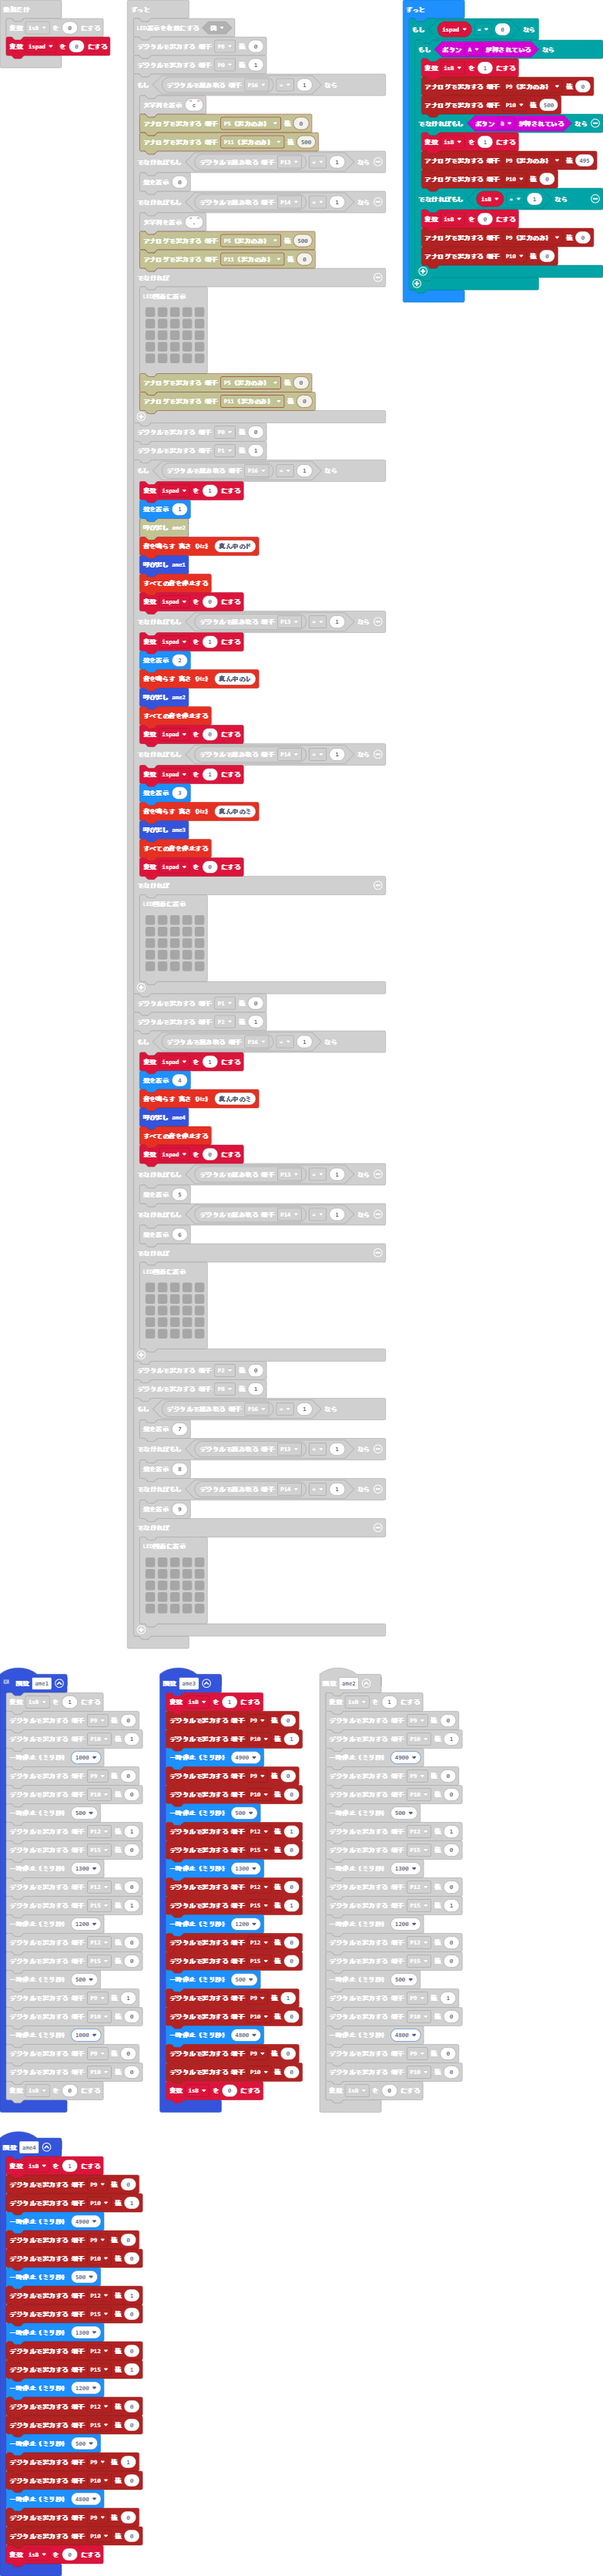
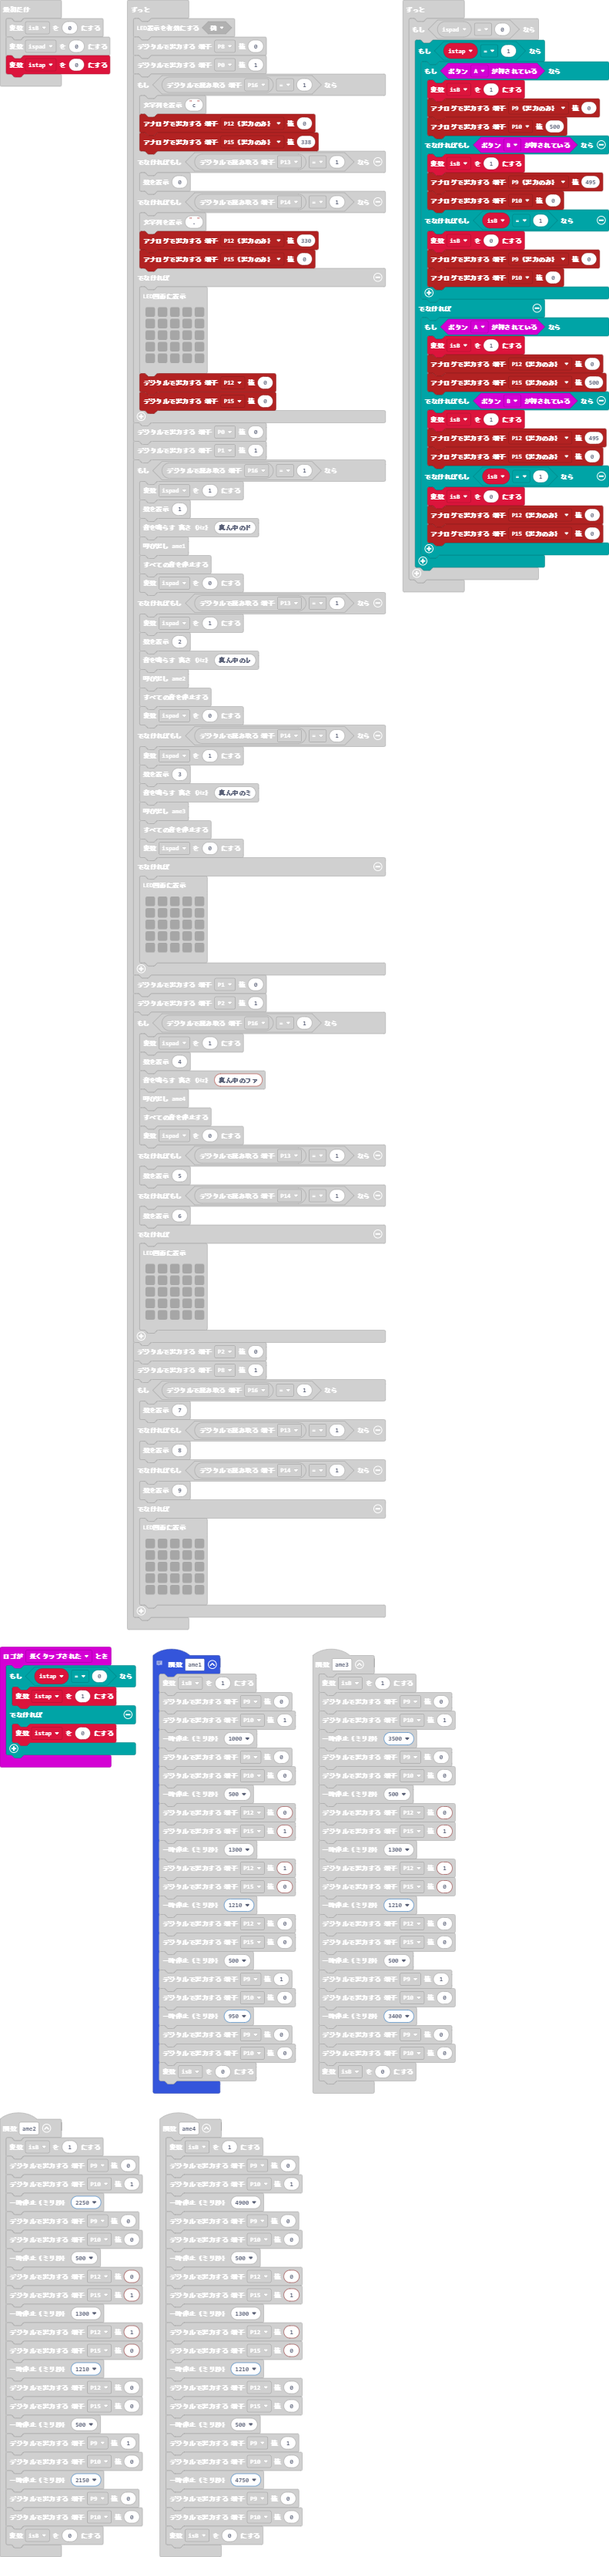
更新 main.blocks, main.ts

diff --git a/main.ts b/main.ts
@@ -2,22 +2,22 @@ function ame3 () {
     isB = 1
     pins.digitalWritePin(DigitalPin.P9, 0)
     pins.digitalWritePin(DigitalPin.P10, 1)
-    basic.pause(4900)
+    basic.pause(3500)
     pins.digitalWritePin(DigitalPin.P9, 0)
     pins.digitalWritePin(DigitalPin.P10, 0)
     basic.pause(500)
-    pins.digitalWritePin(DigitalPin.P12, 1)
-    pins.digitalWritePin(DigitalPin.P15, 0)
-    basic.pause(1300)
     pins.digitalWritePin(DigitalPin.P12, 0)
     pins.digitalWritePin(DigitalPin.P15, 1)
-    basic.pause(1200)
+    basic.pause(1300)
+    pins.digitalWritePin(DigitalPin.P12, 1)
+    pins.digitalWritePin(DigitalPin.P15, 0)
+    basic.pause(1210)
     pins.digitalWritePin(DigitalPin.P12, 0)
     pins.digitalWritePin(DigitalPin.P15, 0)
     basic.pause(500)
     pins.digitalWritePin(DigitalPin.P9, 1)
     pins.digitalWritePin(DigitalPin.P10, 0)
-    basic.pause(4800)
+    basic.pause(3400)
     pins.digitalWritePin(DigitalPin.P9, 0)
     pins.digitalWritePin(DigitalPin.P10, 0)
     isB = 0
@@ -55,22 +55,29 @@ function ame1 () {
     pins.digitalWritePin(DigitalPin.P9, 0)
     pins.digitalWritePin(DigitalPin.P10, 0)
     basic.pause(500)
-    pins.digitalWritePin(DigitalPin.P12, 1)
-    pins.digitalWritePin(DigitalPin.P15, 0)
-    basic.pause(1300)
     pins.digitalWritePin(DigitalPin.P12, 0)
     pins.digitalWritePin(DigitalPin.P15, 1)
-    basic.pause(1200)
+    basic.pause(1300)
+    pins.digitalWritePin(DigitalPin.P12, 1)
+    pins.digitalWritePin(DigitalPin.P15, 0)
+    basic.pause(1210)
     pins.digitalWritePin(DigitalPin.P12, 0)
     pins.digitalWritePin(DigitalPin.P15, 0)
     basic.pause(500)
     pins.digitalWritePin(DigitalPin.P9, 1)
     pins.digitalWritePin(DigitalPin.P10, 0)
-    basic.pause(1000)
+    basic.pause(950)
     pins.digitalWritePin(DigitalPin.P9, 0)
     pins.digitalWritePin(DigitalPin.P10, 0)
     isB = 0
 }
+input.onLogoEvent(TouchButtonEvent.LongPressed, function () {
+    if (istap == 0) {
+        istap = 1
+    } else {
+        istap = 0
+    }
+})
 function ame4 () {
     isB = 1
     pins.digitalWritePin(DigitalPin.P9, 0)
@@ -79,18 +86,18 @@ function ame4 () {
     pins.digitalWritePin(DigitalPin.P9, 0)
     pins.digitalWritePin(DigitalPin.P10, 0)
     basic.pause(500)
-    pins.digitalWritePin(DigitalPin.P12, 1)
-    pins.digitalWritePin(DigitalPin.P15, 0)
-    basic.pause(1300)
     pins.digitalWritePin(DigitalPin.P12, 0)
     pins.digitalWritePin(DigitalPin.P15, 1)
-    basic.pause(1200)
+    basic.pause(1300)
+    pins.digitalWritePin(DigitalPin.P12, 1)
+    pins.digitalWritePin(DigitalPin.P15, 0)
+    basic.pause(1210)
     pins.digitalWritePin(DigitalPin.P12, 0)
     pins.digitalWritePin(DigitalPin.P15, 0)
     basic.pause(500)
     pins.digitalWritePin(DigitalPin.P9, 1)
     pins.digitalWritePin(DigitalPin.P10, 0)
-    basic.pause(4800)
+    basic.pause(4750)
     pins.digitalWritePin(DigitalPin.P9, 0)
     pins.digitalWritePin(DigitalPin.P10, 0)
     isB = 0
@@ -99,39 +106,45 @@ function ame2 () {
     isB = 1
     pins.digitalWritePin(DigitalPin.P9, 0)
     pins.digitalWritePin(DigitalPin.P10, 1)
-    basic.pause(4900)
+    basic.pause(2250)
     pins.digitalWritePin(DigitalPin.P9, 0)
     pins.digitalWritePin(DigitalPin.P10, 0)
     basic.pause(500)
-    pins.digitalWritePin(DigitalPin.P12, 1)
-    pins.digitalWritePin(DigitalPin.P15, 0)
-    basic.pause(1300)
     pins.digitalWritePin(DigitalPin.P12, 0)
     pins.digitalWritePin(DigitalPin.P15, 1)
-    basic.pause(1200)
+    basic.pause(1300)
+    pins.digitalWritePin(DigitalPin.P12, 1)
+    pins.digitalWritePin(DigitalPin.P15, 0)
+    basic.pause(1210)
     pins.digitalWritePin(DigitalPin.P12, 0)
     pins.digitalWritePin(DigitalPin.P15, 0)
     basic.pause(500)
     pins.digitalWritePin(DigitalPin.P9, 1)
     pins.digitalWritePin(DigitalPin.P10, 0)
-    basic.pause(4800)
+    basic.pause(2150)
     pins.digitalWritePin(DigitalPin.P9, 0)
     pins.digitalWritePin(DigitalPin.P10, 0)
     isB = 0
 }
+let istap = 0
 let isB = 0
 isB = 0
 let ispad = 0
+istap = 0
 basic.forever(function () {
     led.enable(false)
     pins.digitalWritePin(DigitalPin.P8, 0)
     pins.digitalWritePin(DigitalPin.P0, 1)
     if (pins.digitalReadPin(DigitalPin.P16) == 1) {
         basic.showString("c")
+        pins.analogWritePin(AnalogPin.P12, 0)
+        pins.analogWritePin(AnalogPin.P15, 338)
     } else if (pins.digitalReadPin(DigitalPin.P13) == 1) {
         basic.showNumber(0)
     } else if (pins.digitalReadPin(DigitalPin.P14) == 1) {
         basic.showString(".")
+        pins.analogWritePin(AnalogPin.P12, 330)
+        pins.analogWritePin(AnalogPin.P15, 0)
     } else {
         basic.showLeds(`
             . . . . .
@@ -140,6 +153,8 @@ basic.forever(function () {
             . . . . .
             . . . . .
             `)
+        pins.digitalWritePin(DigitalPin.P12, 0)
+        pins.digitalWritePin(DigitalPin.P15, 0)
     }
     pins.digitalWritePin(DigitalPin.P0, 0)
     pins.digitalWritePin(DigitalPin.P1, 1)
@@ -178,7 +193,7 @@ basic.forever(function () {
     if (pins.digitalReadPin(DigitalPin.P16) == 1) {
         ispad = 1
         basic.showNumber(4)
-        music.ringTone(330)
+        music.ringTone(349)
         ame4()
         music.stopAllSounds()
         ispad = 0
@@ -215,18 +230,34 @@ basic.forever(function () {
 })
 basic.forever(function () {
     if (ispad == 0) {
-        if (input.buttonIsPressed(Button.A)) {
-            isB = 1
-            pins.analogWritePin(AnalogPin.P9, 0)
-            pins.analogWritePin(AnalogPin.P10, 500)
-        } else if (input.buttonIsPressed(Button.B)) {
-            isB = 1
-            pins.analogWritePin(AnalogPin.P9, 495)
-            pins.analogWritePin(AnalogPin.P10, 0)
-        } else if (isB == 1) {
-            isB = 0
-            pins.analogWritePin(AnalogPin.P9, 0)
-            pins.analogWritePin(AnalogPin.P10, 0)
+        if (istap == 1) {
+            if (input.buttonIsPressed(Button.A)) {
+                isB = 1
+                pins.analogWritePin(AnalogPin.P9, 0)
+                pins.analogWritePin(AnalogPin.P10, 500)
+            } else if (input.buttonIsPressed(Button.B)) {
+                isB = 1
+                pins.analogWritePin(AnalogPin.P9, 495)
+                pins.analogWritePin(AnalogPin.P10, 0)
+            } else if (isB == 1) {
+                isB = 0
+                pins.analogWritePin(AnalogPin.P9, 0)
+                pins.analogWritePin(AnalogPin.P10, 0)
+            }
+        } else {
+            if (input.buttonIsPressed(Button.A)) {
+                isB = 1
+                pins.analogWritePin(AnalogPin.P12, 0)
+                pins.analogWritePin(AnalogPin.P15, 500)
+            } else if (input.buttonIsPressed(Button.B)) {
+                isB = 1
+                pins.analogWritePin(AnalogPin.P12, 495)
+                pins.analogWritePin(AnalogPin.P15, 0)
+            } else if (isB == 1) {
+                isB = 0
+                pins.analogWritePin(AnalogPin.P12, 0)
+                pins.analogWritePin(AnalogPin.P15, 0)
+            }
         }
     }
 })
